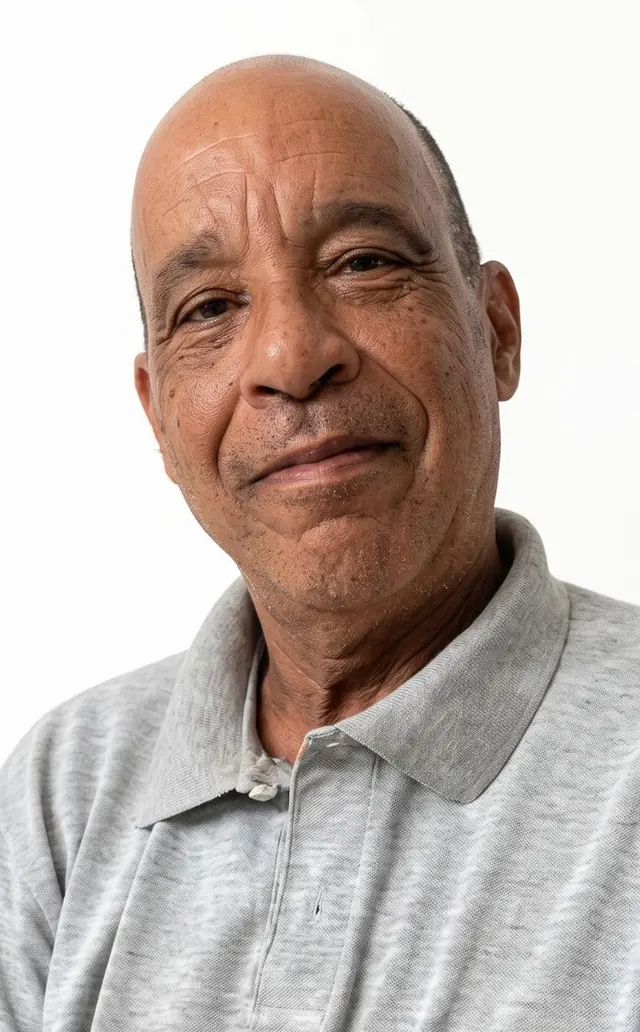
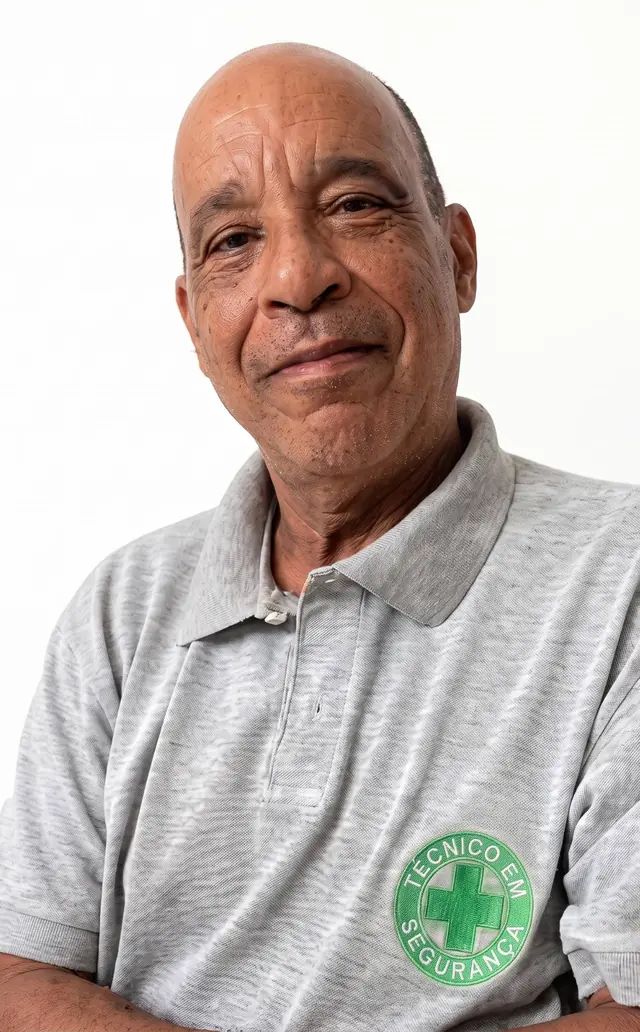
Foto correta do cliente (Tecnico em Seguranca) em alta resolucao

diff --git a/index.html b/index.html
@@ -174,6 +174,8 @@ section.s{padding:80px 0}.band,.after{flex-direction:column;align-items:flex-sta
 .hero .grid>*,.two>*,.ab>*,.cg>*{min-width:0}
 @media(max-width:960px){.hero .grid,.two,.ab,.cg{grid-template-columns:minmax(0,1fr)}}
 @media(max-width:640px){.btn{white-space:normal;text-align:center}.ctas .btn{flex:1 1 100%;min-width:0}.proof{font-size:13.5px}}
+.hero .plate{bottom:-64px}.hero .ph{margin-bottom:64px}
+@media(max-width:960px){.hero .ph{margin-bottom:70px}}
 </style>
 <script type="application/ld+json">{"@context": "https://schema.org", "@graph": [{"@type": "WebSite", "@id": "https://kahuesouza.github.io/jose-carlos-de-souza/#website", "url": "https://kahuesouza.github.io/jose-carlos-de-souza/", "name": "José Carlos de Souza — Assistência Técnica Pericial", "inLanguage": "pt-BR"}, {"@type": "WebPage", "@id": "https://kahuesouza.github.io/jose-carlos-de-souza/#webpage", "url": "https://kahuesouza.github.io/jose-carlos-de-souza/", "name": "Perícia Trabalhista e Previdenciária | José Carlos de Souza", "description": "Assistência técnica em perícias trabalhistas e previdenciárias: insalubridade, periculosidade, PPP, acidentes e NRs. Peça sua análise pelo WhatsApp.", "isPartOf": {"@id": "https://kahuesouza.github.io/jose-carlos-de-souza/#website"}, "inLanguage": "pt-BR", "primaryImageOfPage": {"@type": "ImageObject", "url": "https://kahuesouza.github.io/jose-carlos-de-souza/og.jpg"}, "about": {"@id": "https://kahuesouza.github.io/jose-carlos-de-souza/#servico"}}, {"@type": ["ProfessionalService", "LocalBusiness"], "@id": "https://kahuesouza.github.io/jose-carlos-de-souza/#servico", "name": "José Carlos de Souza — Assistência Técnica Pericial", "url": "https://kahuesouza.github.io/jose-carlos-de-souza/", "image": "https://kahuesouza.github.io/jose-carlos-de-souza/og.jpg", "description": "Assistência técnica em perícias trabalhistas e previdenciárias: insalubridade, periculosidade, PPP, acidentes e NRs. Peça sua análise pelo WhatsApp.", "telephone": "+5512988229244", "email": "jcs.seguranca@hotmail.com", "slogan": "Assistência técnica em perícias trabalhistas e previdenciárias", "knowsAbout": ["Perícia trabalhista", "Perícia previdenciária", "Insalubridade NR 15", "Periculosidade NR 16", "Revisão de PPP", "Acidente de trabalho", "NR 10", "NR 12", "NR 17", "NR 33", "NR 35", "NR 6"], "founder": {"@type": "Person", "name": "José Carlos de Souza", "jobTitle": "Assistente Técnico Pericial", "identifier": "REG. SP/022580.0"}, "contactPoint": {"@type": "ContactPoint", "telephone": "+5512988229244", "contactType": "customer service", "email": "jcs.seguranca@hotmail.com", "availableLanguage": "pt-BR"}, "hasOfferCatalog": {"@type": "OfferCatalog", "name": "Áreas de atuação em assistência técnica pericial", "itemListElement": [{"@type": "Offer", "itemOffered": {"@type": "Service", "name": "NR 15 — Insalubridade", "description": "Análise técnica de exposição a agentes físicos, químicos e biológicos conforme os critérios da NR 15."}}, {"@type": "Offer", "itemOffered": {"@type": "Service", "name": "NR 16 — Periculosidade", "description": "Avaliação técnica de atividades e operações perigosas, considerando o enquadramento nas hipóteses aplicáveis da NR 16."}}, {"@type": "Offer", "itemOffered": {"@type": "Service", "name": "Perícias Previdenciárias e Acidentes de Trabalho", "description": "Assistência técnica relacionada à análise das condições ocupacionais e de documentos em questões previdenciárias e acidentes de trabalho."}}, {"@type": "Offer", "itemOffered": {"@type": "Service", "name": "Revisão de PPP", "description": "Análise técnica do Perfil Profissiográfico Previdenciário para identificação de divergências, omissões e necessidade de complementação documental."}}, {"@type": "Offer", "itemOffered": {"@type": "Service", "name": "NR 10 — Segurança Elétrica", "description": "Análise das condições de segurança em atividades com instalações e serviços em eletricidade, observadas as atribuições profissionais cabíveis."}}, {"@type": "Offer", "itemOffered": {"@type": "Service", "name": "NR 35 — Trabalho em Altura", "description": "Avaliação técnica de situações de trabalho em altura, medidas preventivas e documentação relacionada."}}, {"@type": "Offer", "itemOffered": {"@type": "Service", "name": "NR 33 — Espaços Confinados", "description": "Assistência técnica em questões relacionadas a espaços confinados, riscos ocupacionais e procedimentos de segurança."}}, {"@type": "Offer", "itemOffered": {"@type": "Service", "name": "NR 12 — Máquinas e Equipamentos", "description": "Análise técnica de condições de segurança relacionadas a máquinas, equipamentos e processos industriais."}}, {"@type": "Offer", "itemOffered": {"@type": "Service", "name": "NR 17 — Ergonomia", "description": "Análise das condições de trabalho e fatores ergonômicos relacionados à atividade, considerando a documentação disponível."}}, {"@type": "Offer", "itemOffered": {"@type": "Service", "name": "NR 6 — Avaliação de EPI", "description": "Avaliação técnica de equipamentos de proteção individual, registros e adequação aos riscos ocupacionais."}}]}}, {"@type": "FAQPage", "@id": "https://kahuesouza.github.io/jose-carlos-de-souza/#faq", "mainEntity": [{"@type": "Question", "name": "O que faz um assistente técnico pericial?", "acceptedAnswer": {"@type": "Answer", "text": "O assistente técnico atua na esfera técnica em apoio à parte que o indica, no contexto de suas atribuições. Sua função é diferente da do perito designado pelo juízo, que é o profissional nomeado para produzir a prova técnica."}}, {"@type": "Question", "name": "Qual a diferença entre insalubridade e periculosidade?", "acceptedAnswer": {"@type": "Answer", "text": "Os conceitos possuem fundamentos e critérios distintos, tratados especialmente pelas NRs 15 e 16. A NR 15 trata de atividades e operações insalubres (agentes físicos, químicos e biológicos) e a NR 16, de atividades e operações perigosas. É necessário verificar as atividades e condições concretas."}}, {"@type": "Question", "name": "O que é o PPP e para que serve?", "acceptedAnswer": {"@type": "Answer", "text": "O Perfil Profissiográfico Previdenciário (PPP) reúne informações sobre a trajetória profissional e condições de exposição ocupacional. A análise de seus dados pode ser relevante em questões previdenciárias, e a revisão técnica identifica divergências, omissões e necessidade de complementação documental."}}, {"@type": "Question", "name": "Quando uma perícia técnica é necessária?", "acceptedAnswer": {"@type": "Answer", "text": "Em controvérsias sobre condições de trabalho, a prova técnica pode auxiliar na compreensão de fatos que exigem conhecimento especializado. A determinação ou necessidade de perícia varia conforme o procedimento."}}, {"@type": "Question", "name": "Quais documentos são úteis em uma perícia?", "acceptedAnswer": {"@type": "Answer", "text": "O conjunto de documentos depende do objeto da perícia. Registros de atividades, documentos ocupacionais e informações sobre o ambiente podem ajudar na avaliação. No primeiro contato, indique quais documentos estão disponíveis, sem expor dados sensíveis inicialmente."}}, {"@type": "Question", "name": "Qual a diferença entre laudo pericial e parecer técnico?", "acceptedAnswer": {"@type": "Answer", "text": "Um laudo pericial e um parecer técnico têm finalidades e autores que podem ser diferentes. É importante identificar quem emite o documento e qual seu papel no procedimento."}}, {"@type": "Question", "name": "A análise técnica garante um resultado específico?", "acceptedAnswer": {"@type": "Answer", "text": "Não. A conclusão técnica depende dos dados disponíveis e da avaliação fundamentada. Cada caso exige análise individual."}}, {"@type": "Question", "name": "Como solicitar uma análise técnica ou orçamento?", "acceptedAnswer": {"@type": "Answer", "text": "O contato inicial deve apresentar a natureza do caso, a finalidade pretendida e os documentos disponíveis. Após a avaliação da demanda, podem ser definidos escopo e condições de contratação. Fale pelo WhatsApp (12) 98822-9244."}}]}]}</script>
 </head>
